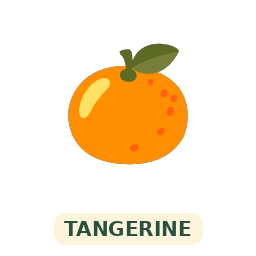
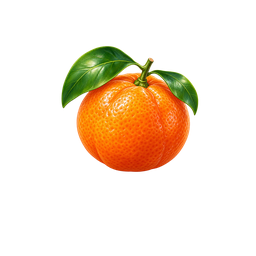
Integrate fruit fixes batch 1: 10 of 11 required fruits
- Ten new 256x256 transparent fruit symbols (lime, papaya, cantaloupe,
  grapefruit, tangerine, lychee, redcurrant, raspberry, blackberry,
  nectarine) copied byte-identical under their existing file names;
  mipmaps enabled. Pack README/manifest/preview kept in docs/reference.
- Fruits symbol_region widened to x52-206, y28-180 so the new drawings
  (up to x202, y32-177) are not clipped; still excludes old captions.
- Validator: Fruits drops from 16 look-alike pairs to 1 (fig = plum).
  Fruits stays unavailable until fruit_31_plum.png is replaced.
- Test updated: fig/plum still flagged, the 10 fixed fruits must never
  be flagged again.
- Fix list and collection status updated, with 70 px review notes
  (tangerine vs orange, red round fruits, mixed drawing styles).

Changed region(s): [[0.2188, 0.1562, 0.7812, 0.6875], [0.1875, 0.8125, 0.8125, 0.9688]]

diff --git a/docs/ARTWORK_FIX_LIST.md b/docs/ARTWORK_FIX_LIST.md
@@ -17,21 +17,24 @@ once every picture is distinct, the game enables the collection automatically.
 
 ## Must replace (the game stays locked until these are distinct)
 
-### Fruits: 11 files
+### Fruits: 11 files (10 done in batch 1, plum still needed)
+
+Batch 1 (`docs/reference/fruit_fixes_batch1/`) replaced 10 of these. They pass the look-alike
+check. Only **`fruit_31_plum.png`** is still required before Fruits can be enabled.
 
 | File | Should show | Currently |
 |------|-------------|-----------|
-| `fruit_09_lime.png` | lime | melon drawing |
-| `fruit_21_papaya.png` | papaya | melon drawing |
-| `fruit_27_cantaloupe.png` | cantaloupe (cut, orange flesh, to differ from melon) | melon drawing |
-| `fruit_32_grapefruit.png` | grapefruit (halved, pink) | orange drawing |
-| `fruit_33_tangerine.png` | tangerine (small, with leaf) | orange drawing |
-| `fruit_24_lychee.png` | lychee (bumpy red shell) | cherries drawing |
-| `fruit_35_redcurrant.png` | redcurrant (cluster on a stem) | cherries drawing |
-| `fruit_25_raspberry.png` | raspberry | strawberry drawing |
-| `fruit_26_blackberry.png` | blackberry | blueberries drawing |
-| `fruit_34_nectarine.png` | nectarine (smooth, red-yellow) | peach drawing |
-| `fruit_31_plum.png` | plum | plain purple circle (same as fig) |
+| ✅ `fruit_09_lime.png` | lime | melon drawing |
+| ✅ `fruit_21_papaya.png` | papaya | melon drawing |
+| ✅ `fruit_27_cantaloupe.png` | cantaloupe (cut, orange flesh, to differ from melon) | melon drawing |
+| ✅ `fruit_32_grapefruit.png` | grapefruit (halved, pink) | orange drawing |
+| ✅ `fruit_33_tangerine.png` | tangerine (small, with leaf) | orange drawing |
+| ✅ `fruit_24_lychee.png` | lychee (bumpy red shell) | cherries drawing |
+| ✅ `fruit_35_redcurrant.png` | redcurrant (cluster on a stem) | cherries drawing |
+| ✅ `fruit_25_raspberry.png` | raspberry | strawberry drawing |
+| ✅ `fruit_26_blackberry.png` | blackberry | blueberries drawing |
+| ✅ `fruit_34_nectarine.png` | nectarine (smooth, red-yellow) | peach drawing |
+| ❌ `fruit_31_plum.png` | plum | plain purple circle (same as fig) |
 
 ### Vegetables: 14 files
 
@@ -54,6 +57,17 @@ once every picture is distinct, the game enables the collection automatically.
 
 All five seedling files are listed because the seedling drawing isn't right for any of them.
 Lettuce, spinach (see below), broccoli, cucumber, chili and green pepper keep their current pictures.
+
+## Review notes after batch 1 (70 px tiles, `docs/screenshots/fruits_70px_after_batch1.png`)
+
+These pass the automatic check but could confuse players on small phones:
+
+- **Tangerine vs orange:** both are an orange citrus with a leaf; only the drawing style differs.
+  Consider showing the tangerine peeled or in segments.
+- **Red round fruits:** apple, nectarine, persimmon (drawn as a tomato) and pomegranate (a plain
+  red circle) are all red and round with a little green on top.
+- **Mixed styles:** the batch 1 fruits are painterly and detailed; the rest of the set is flat
+  emoji-style. Side by side they don't look like one collection.
 
 ## Should replace (pass the automatic check, but are stand-ins)
 

diff --git a/docs/reference/fruit_fixes_batch1/README_FOR_CLAUDE.md b/docs/reference/fruit_fixes_batch1/README_FOR_CLAUDE.md
@@ -1,0 +1,15 @@
+# Zen Mahjong Journey — Fruit Fixes, Batch 1 (10/11 essential fruits)
+
+These are 10 real transparent 256×256 PNGs with exactly matched destination filenames. They are **symbol-only** assets; use the game’s existing ivory tile body. Original source images are not modified.
+
+## Installation
+From this extracted pack, merge `assets/collections/fruits/` into `<Godot project>/assets/collections/fruits/`. Keep a Git commit or backup first. Do not overwrite other artwork.
+
+## For Claude Code
+Inspect these 10 files and the current project manifest. Confirm that the destination filenames match existing manifest entries, then integrate the files. Reimport textures and run your pixel similarity checks plus the complete gameplay tests. Render a phone-sized tile grid to inspect readability. Do not enable the Fruits collection until all its required symbols are valid.
+
+## Still missing
+`fruit_31_plum.png` — the eleventh required fruit image. The 14 required vegetable replacements are also NOT in this batch, and optional replacements remain outstanding. This is an incremental pack, not the full repair.
+
+## Art check
+The images are scaled to fit a 256×256 transparent canvas (drawing approximately in x=53–203, centered at y≈104). At ~70 px viewing size, inspect carefully for recognizability and visual similarity; generated artwork is not automatically considered validated.

diff --git a/docs/TILE_COLLECTIONS.md b/docs/TILE_COLLECTIONS.md
@@ -109,13 +109,11 @@ the tile style `data/tile_art/ivory_body_v1.json` (256 × 320, face 8,6 232 × 2
 | Cute Animals | ✅ enabled | 36 distinct symbols, fixed mapping |
 | Alphabet | ✅ enabled | 26 distinct letters, board-ordered (boards with more than 26 groups show Classic) |
 | Mixed | ✅ enabled | 36 distinct. The pack's `mixed_27_vegetables_07.png` (red pepper) is the same picture as green pepper, so the manifest uses `vegetables/vegetable_10_potato.png` in its place |
-| Fruits | ⛔ unavailable | 16 look-alike pairs: the same drawing reused with only the caption changed |
+| Fruits | ⛔ unavailable | 1 look-alike pair left: fig = plum. Batch 1 fixed the other 10 (see `ARTWORK_FIX_LIST.md`) |
 | Vegetables | ⛔ unavailable | 23 look-alike pairs, same cause |
 
 Look-alike groups (each needs distinct art before the collection can be enabled):
-- Fruits: lime = melon = papaya = cantaloupe; orange = grapefruit = tangerine;
-  cherries = lychee = redcurrant; strawberry = raspberry; blueberries = blackberry;
-  peach = nectarine; fig = plum.
+- Fruits: fig = plum (both a plain purple circle). The rest were fixed by fruit batch 1.
 - Vegetables: asparagus = kale = turnip = spring onion = okra; cabbage = lettuce = bok choy =
   brussels sprouts; spinach = leek = celery; broccoli = cauliflower; cucumber = zucchini;
   radish = chili; red pepper = green pepper (drawn green).
